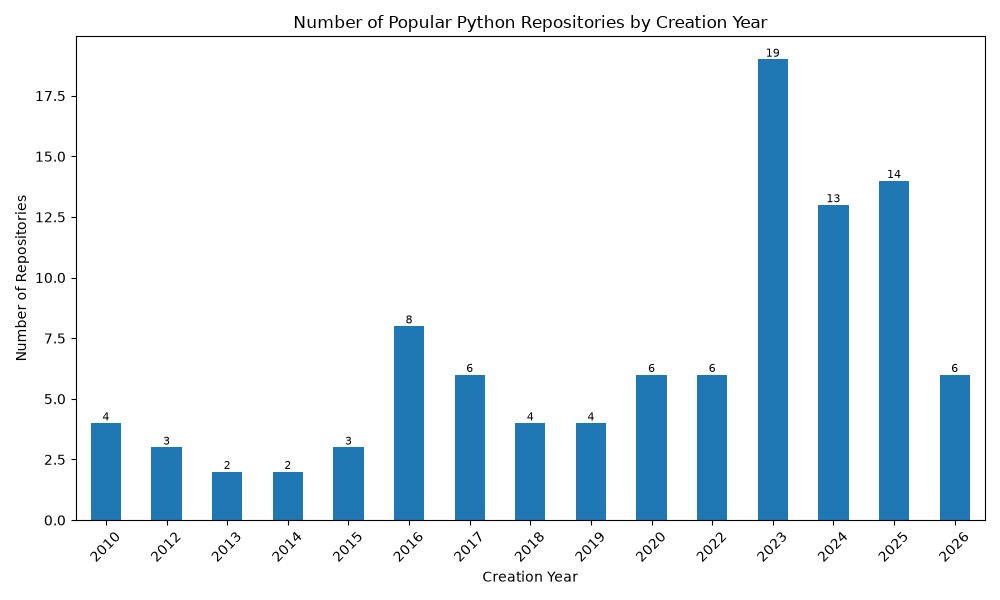
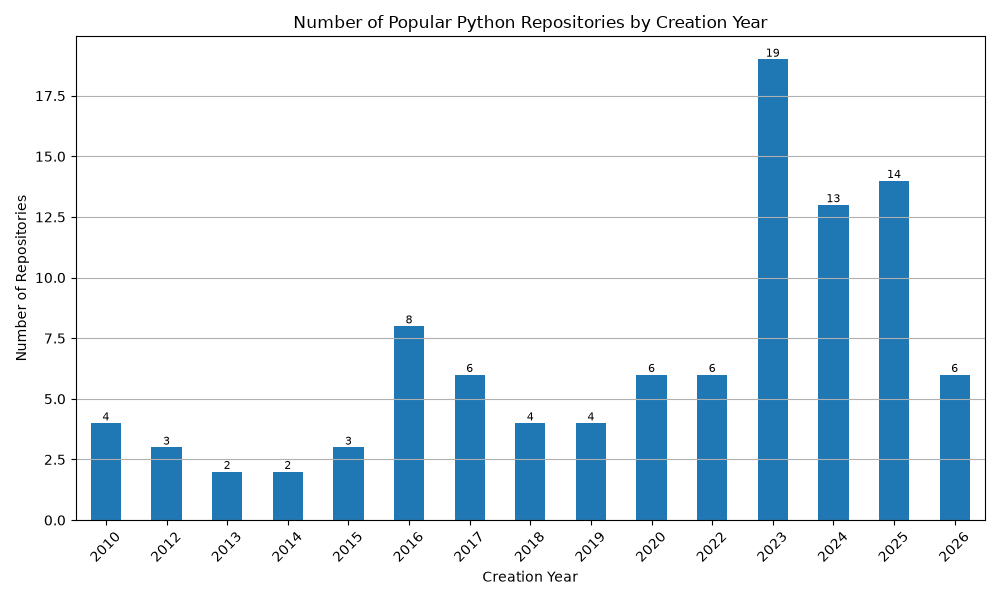
feat: analyze star distribution

diff --git a/src/analyze_data.py b/src/analyze_data.py
@@ -56,5 +56,28 @@ def analyze_repository_creation_year():
     plt.ylabel('Number of Repositories')
     plt.xticks(rotation=45)
     plt.bar_label(plt.gca().containers[0], label_type='edge', fontsize=8)
+    plt.grid(axis='y')
     plt.tight_layout()
     plt.savefig(r'.\graphs\repository_creation_year.png')
+
+
+def analyze_star_distribution():
+    df = pd.read_csv(CSV_PATH)
+    plt.figure(figsize=(10, 6))
+    sns.histplot(df['Stars'], bins=15, kde=True)
+    plt.title('Distribution of Stars in Popular Python Repositories')
+    plt.xlabel('Number of Stars')
+    plt.ylabel('Frequency')
+    plt.grid(axis='y')
+    plt.tight_layout()
+    plt.savefig(r'.\graphs\star_distribution.png')
+
+    
+    plt.figure(figsize=(10, 6))
+    sns.boxplot(x=df['Stars'])
+    plt.title('Boxplot of Stars in Popular Python Repositories')
+    plt.xlabel('Number of Stars')
+    plt.grid(axis='x')
+    plt.yticks([])
+    plt.tight_layout()
+    plt.savefig(r'.\graphs\star_boxplot.png')

diff --git a/src/main.py b/src/main.py
@@ -1,11 +1,12 @@
 from fetch_data import fetch_python_repositories
-from analyze_data import plot_top10_stars, analyze_star_fork_correlation,analyze_repository_creation_year
+from analyze_data import plot_top10_stars, analyze_star_fork_correlation,analyze_repository_creation_year,analyze_star_distribution
 
 def main():
     df = fetch_python_repositories()
     plot_top10_stars()
     analyze_star_fork_correlation()
     analyze_repository_creation_year()
+    analyze_star_distribution()
 
 if __name__ == "__main__":
     main()